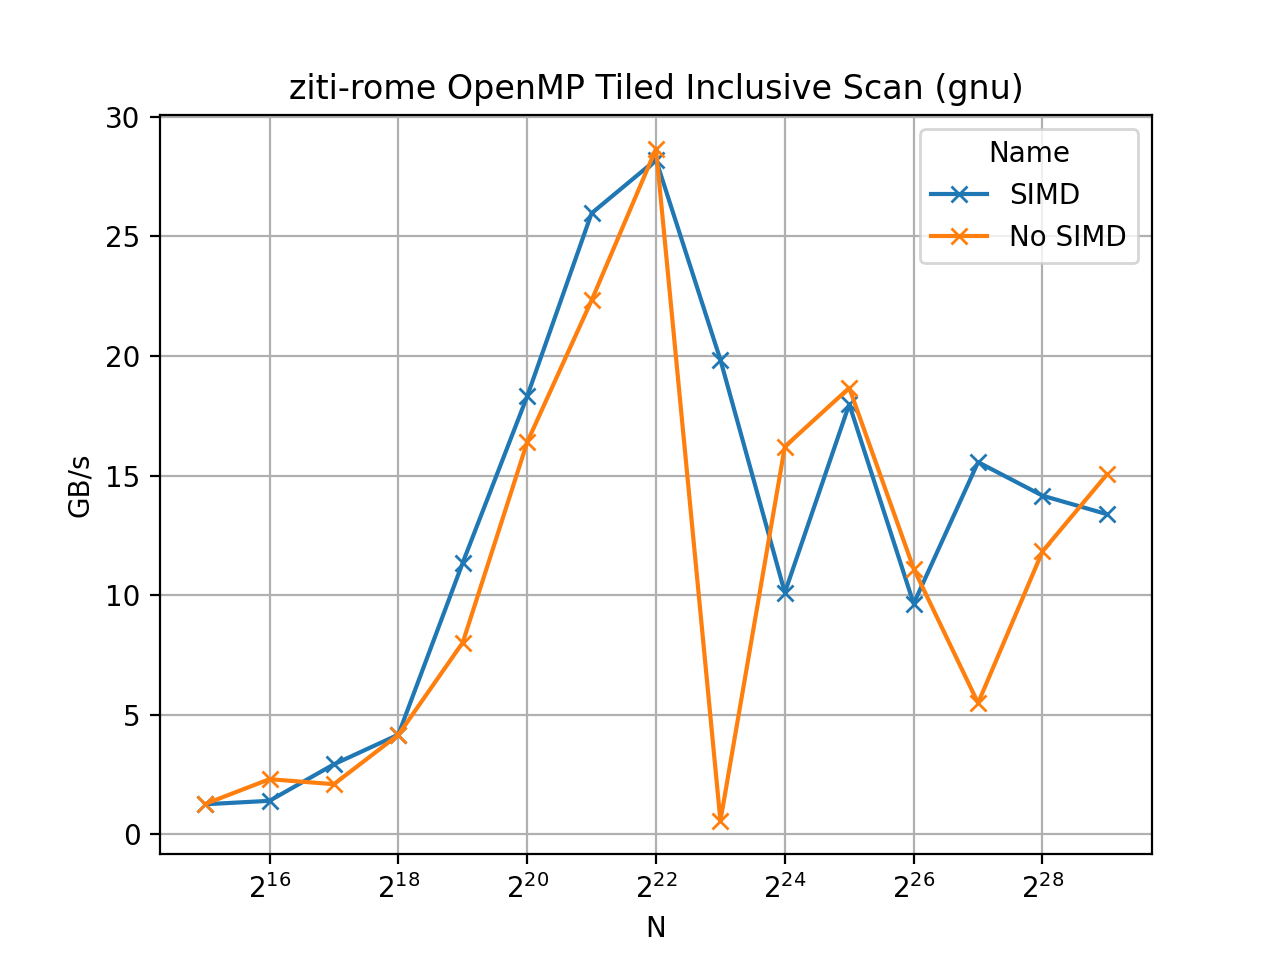
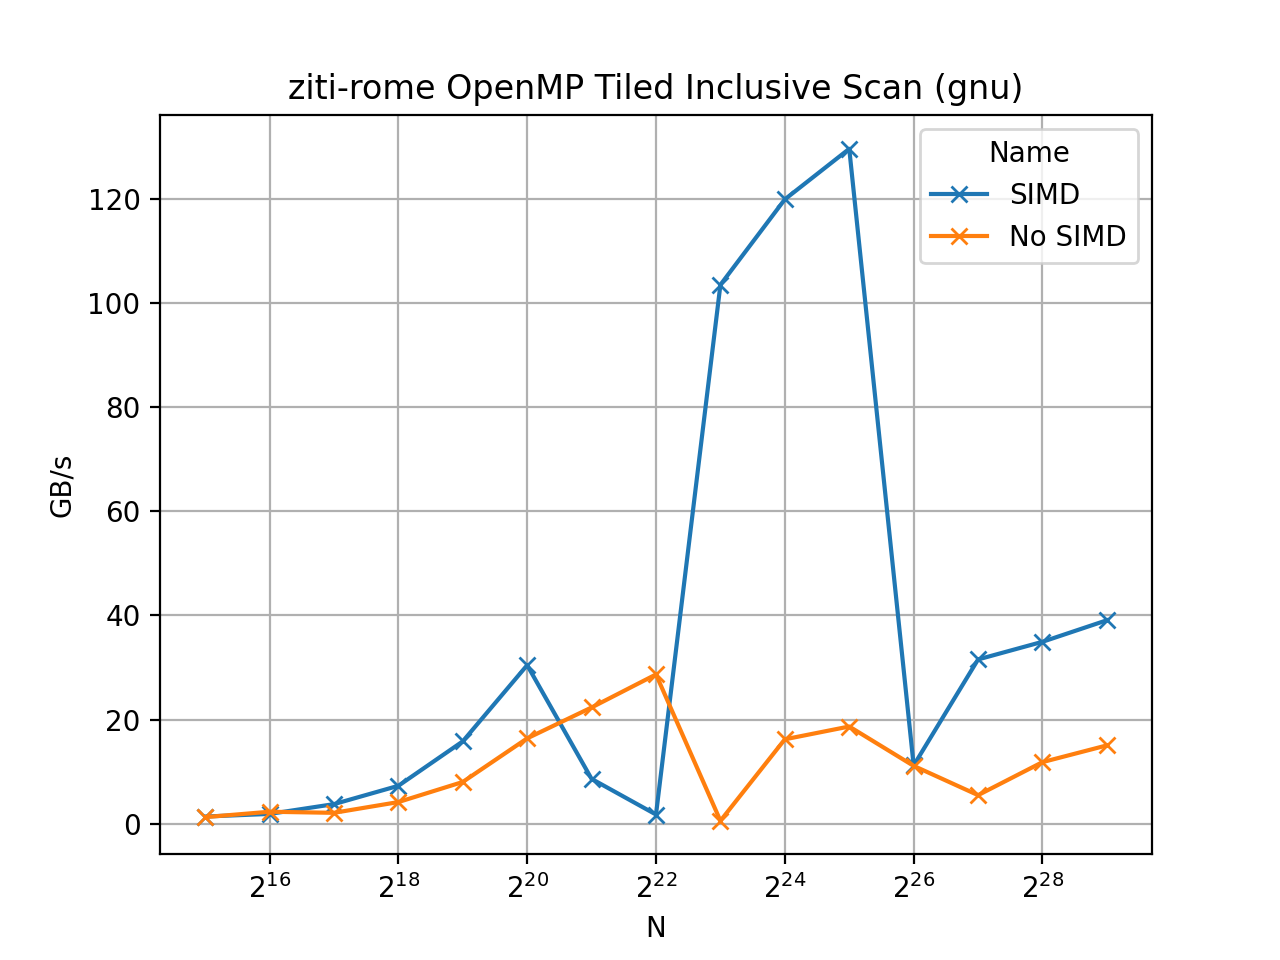
Added Recent Benchmark Results

diff --git a/documentation/plots.py b/documentation/plots.py
@@ -253,10 +253,10 @@ def figure_tilesize(plotwrapper):
 
 def figure_provided_scheduling_SIMD_media(plotwrapper):
     columns = {
-        "mp_media_gnu_omp_scheduling_static_media2_inc_OMP_provided": "Static",
-        "mp_media_gnu_omp_scheduling_dynamic_media2_inc_OMP_provided": "Dynamic",
-        "mp_media_gnu_omp_scheduling_guided_media2_inc_OMP_provided": "Guided",
-        "mp_media_gnu_omp_scheduling_auto_media2_inc_OMP_provided": "Auto",
+        "mp_media_gnu_omp_scheduling_static_inc_OMP_provided": "Static",
+        "mp_media_gnu_omp_scheduling_dynamic_inc_OMP_provided": "Dynamic",
+        "mp_media_gnu_omp_scheduling_guided_inc_OMP_provided": "Guided",
+        "mp_media_gnu_omp_scheduling_auto_inc_OMP_provided": "Auto",
     }
     plotwrapper.columns = columns
     plotwrapper.plot(
@@ -270,10 +270,10 @@ def figure_provided_scheduling_SIMD_media(plotwrapper):
 
 def figure_updown_scheduling_SIMD_media(plotwrapper):
     columns = {
-        "mp_media_gnu_omp_scheduling_static_media2_inc_OMP_updown": "Static",
-        "mp_media_gnu_omp_scheduling_dynamic_media2_inc_OMP_updown": "Dynamic",
-        "mp_media_gnu_omp_scheduling_guided_media2_inc_OMP_updown": "Guided",
-        "mp_media_gnu_omp_scheduling_auto_media2_inc_OMP_updown": "Auto",
+        "mp_media_gnu_omp_scheduling_static_inc_OMP_updown": "Static",
+        "mp_media_gnu_omp_scheduling_dynamic_inc_OMP_updown": "Dynamic",
+        "mp_media_gnu_omp_scheduling_guided_inc_OMP_updown": "Guided",
+        "mp_media_gnu_omp_scheduling_auto_inc_OMP_updown": "Auto",
     }
     plotwrapper.columns = columns
     plotwrapper.plot(
@@ -287,10 +287,10 @@ def figure_updown_scheduling_SIMD_media(plotwrapper):
 
 def figure_tiled_scheduling_SIMD_media(plotwrapper):
     columns = {
-        "mp_media_gnu_omp_scheduling_static_media2_inc_OMP_tiled": "Static",
-        "mp_media_gnu_omp_scheduling_dynamic_media2_inc_OMP_tiled": "Dynamic",
-        "mp_media_gnu_omp_scheduling_guided_media2_inc_OMP_tiled": "Guided",
-        "mp_media_gnu_omp_scheduling_auto_media2_inc_OMP_tiled": "Auto",
+        "mp_media_gnu_omp_scheduling_static_inc_OMP_tiled": "Static",
+        "mp_media_gnu_omp_scheduling_dynamic_inc_OMP_tiled": "Dynamic",
+        "mp_media_gnu_omp_scheduling_guided_inc_OMP_tiled": "Guided",
+        "mp_media_gnu_omp_scheduling_auto_inc_OMP_tiled": "Auto",
     }
     plotwrapper.columns = columns
     plotwrapper.plot(
@@ -375,7 +375,7 @@ def figure_SIMD_rome(plotwrapper):
 
 def figure_SIMD_media(plotwrapper):
     columns = {
-        "mp_media_gnu_omp_scheduling_static_media2_inc_OMP_tiled": "SIMD",
+        "mp_media_gnu_omp_scheduling_static_inc_OMP_tiled": "SIMD",
         "mp_media_gnu_omp_no_simd_scheduling_static_media2_inc_OMP_tiled": "No SIMD",
     }
     plotwrapper.columns = columns
